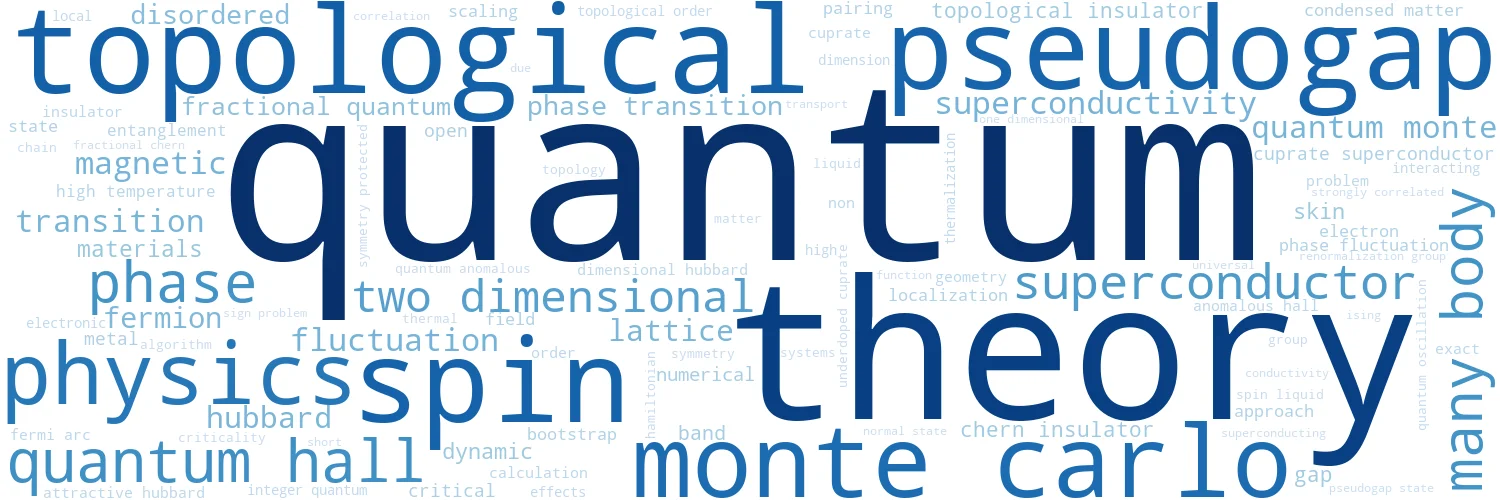
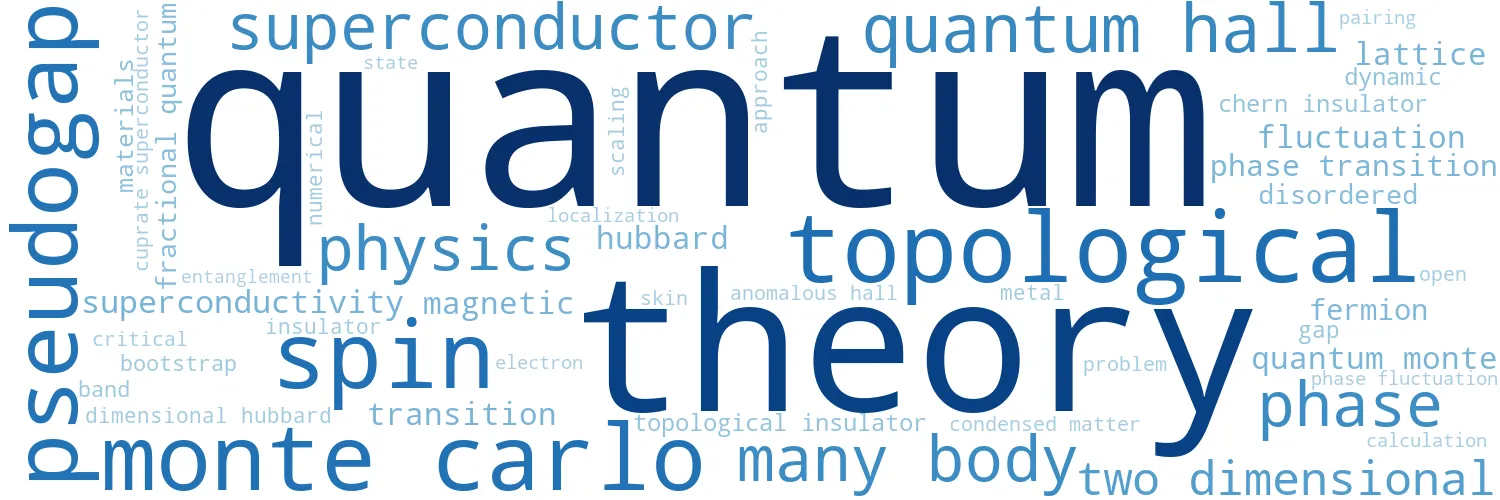
refined site metadata, navigation, and publications.
- updated SEO/profile settings and separated the navigation logo from affiliation.
- improved navigation accessibility and optional affiliation-link handling.
- refreshed wordcloud assets and ignore rules.

diff --git a/_layouts/homepage.html b/_layouts/homepage.html
@@ -41,8 +41,14 @@
 
     <div class="topnav">
 
-      {% if site.affiliation_link and site.affiliation_logo %}
-      <a href="{{ site.affiliation_link }}"><img width="30" src="{{ site.affiliation_logo }}" decoding="async" alt=""></a>
+      {% if site.nav_logo %}
+        {% if site.nav_logo_link %}
+        <a href="{{ site.nav_logo_link }}" aria-label="{{ site.title }} home">
+        {% endif %}
+        <img width="30" src="{{ site.nav_logo }}" decoding="async" alt="{{ site.title }} logo">
+        {% if site.nav_logo_link %}
+        </a>
+        {% endif %}
       {% endif %}
 
       <div id="nav-menu">
@@ -88,7 +94,11 @@
         <br>
         {% endif %}
         {% if site.affiliation %}
-        <a href="{{ site.affiliation_link }}" rel="noopener"><autocolor>{{ site.affiliation }}</autocolor></a>
+          {% if site.affiliation_link %}
+          <a href="{{ site.affiliation_link }}" rel="noopener"><autocolor>{{ site.affiliation }}</autocolor></a>
+          {% else %}
+          <autocolor>{{ site.affiliation }}</autocolor>
+          {% endif %}
         <br>
         {% endif %}
         {% if site.email %}

diff --git a/assets/css/navigation.css b/assets/css/navigation.css
@@ -198,7 +198,7 @@
         float: right;
         right: var(--topnav-inset);
         top: var(--topnav-inset);
-        margin-right:5%;
+        margin-right:2%;
         cursor: pointer;
       }
 

diff --git a/zotero_wordcloud/word_cloud.py b/zotero_wordcloud/word_cloud.py
@@ -26,29 +26,11 @@ stop_words = [
 
     "method", "methods", "model", "models", "non-hermitian", "field",
     "states", "effect", "properties", "system", "systems",
-    ]
+]
 
 custom_mappings = {
-    # "studies": "study",
-    # '"music,music"' : "music",
-    # "musical" : "music",
-    # "harmonic" : "harmony",
-    # "music psychology" : "psychology",
-    # "music theory" : "theory",
-    # "music perception" : "perception",
-    # "music cognition" : "cognition",
-    # "cognitive" : "cognition",
-    # "modelling" : "modeling",
-    # "syntactic" : "syntax",
-    # "theory,music": "music theory",
-    # "theories" : "theory",
-    # "sciences" : "science",
-    # "melodies" : "melody",
-    # "concepts" : "concept",
-    # "nir" : "mir"
-
-    # "monte" : "monte carlo",
-    # "carlo" : "monte carlo",
+    # "monte": "monte carlo",
+    # "carlo": "monte carlo",
 }
 
 items = ["title", "booktitle", "abstract", "keywords"]

diff --git a/_includes/publications.md b/_includes/publications.md
@@ -1,6 +1,13 @@
 <h1 id="publications"></h1>
 
-<h2 style="margin: 2px 0px -15px;">Publications <temp style="font-size:15px;">[</temp><a href="https://scholar.google.com/citations?user=aK9x54UAAAAJ" target="_blank" style="font-size:15px;">Google Scholar</a><temp style="font-size:15px;">]</temp><temp style="font-size:15px;">[</temp><a href="https://orcid.org/0000-0002-8651-3995" target="_blank" style="font-size:15px;">ORCID</a><temp style="font-size:15px;">]</temp></h2>
+<h2 style="margin: 2px 0px -15px;">Publications
+  {% if site.google_scholar %}
+  <temp style="font-size:15px;">[</temp><a href="{{ site.google_scholar }}" target="_blank" rel="noopener noreferrer" style="font-size:15px;">Google Scholar</a><temp style="font-size:15px;">]</temp>
+  {% endif %}
+  {% if site.orcid %}
+  <temp style="font-size:15px;">[</temp><a href="{{ site.orcid }}" target="_blank" rel="noopener noreferrer" style="font-size:15px;">ORCID</a><temp style="font-size:15px;">]</temp>
+  {% endif %}
+</h2>
 
 <div class="publications">
 <ol class="bibliography">
